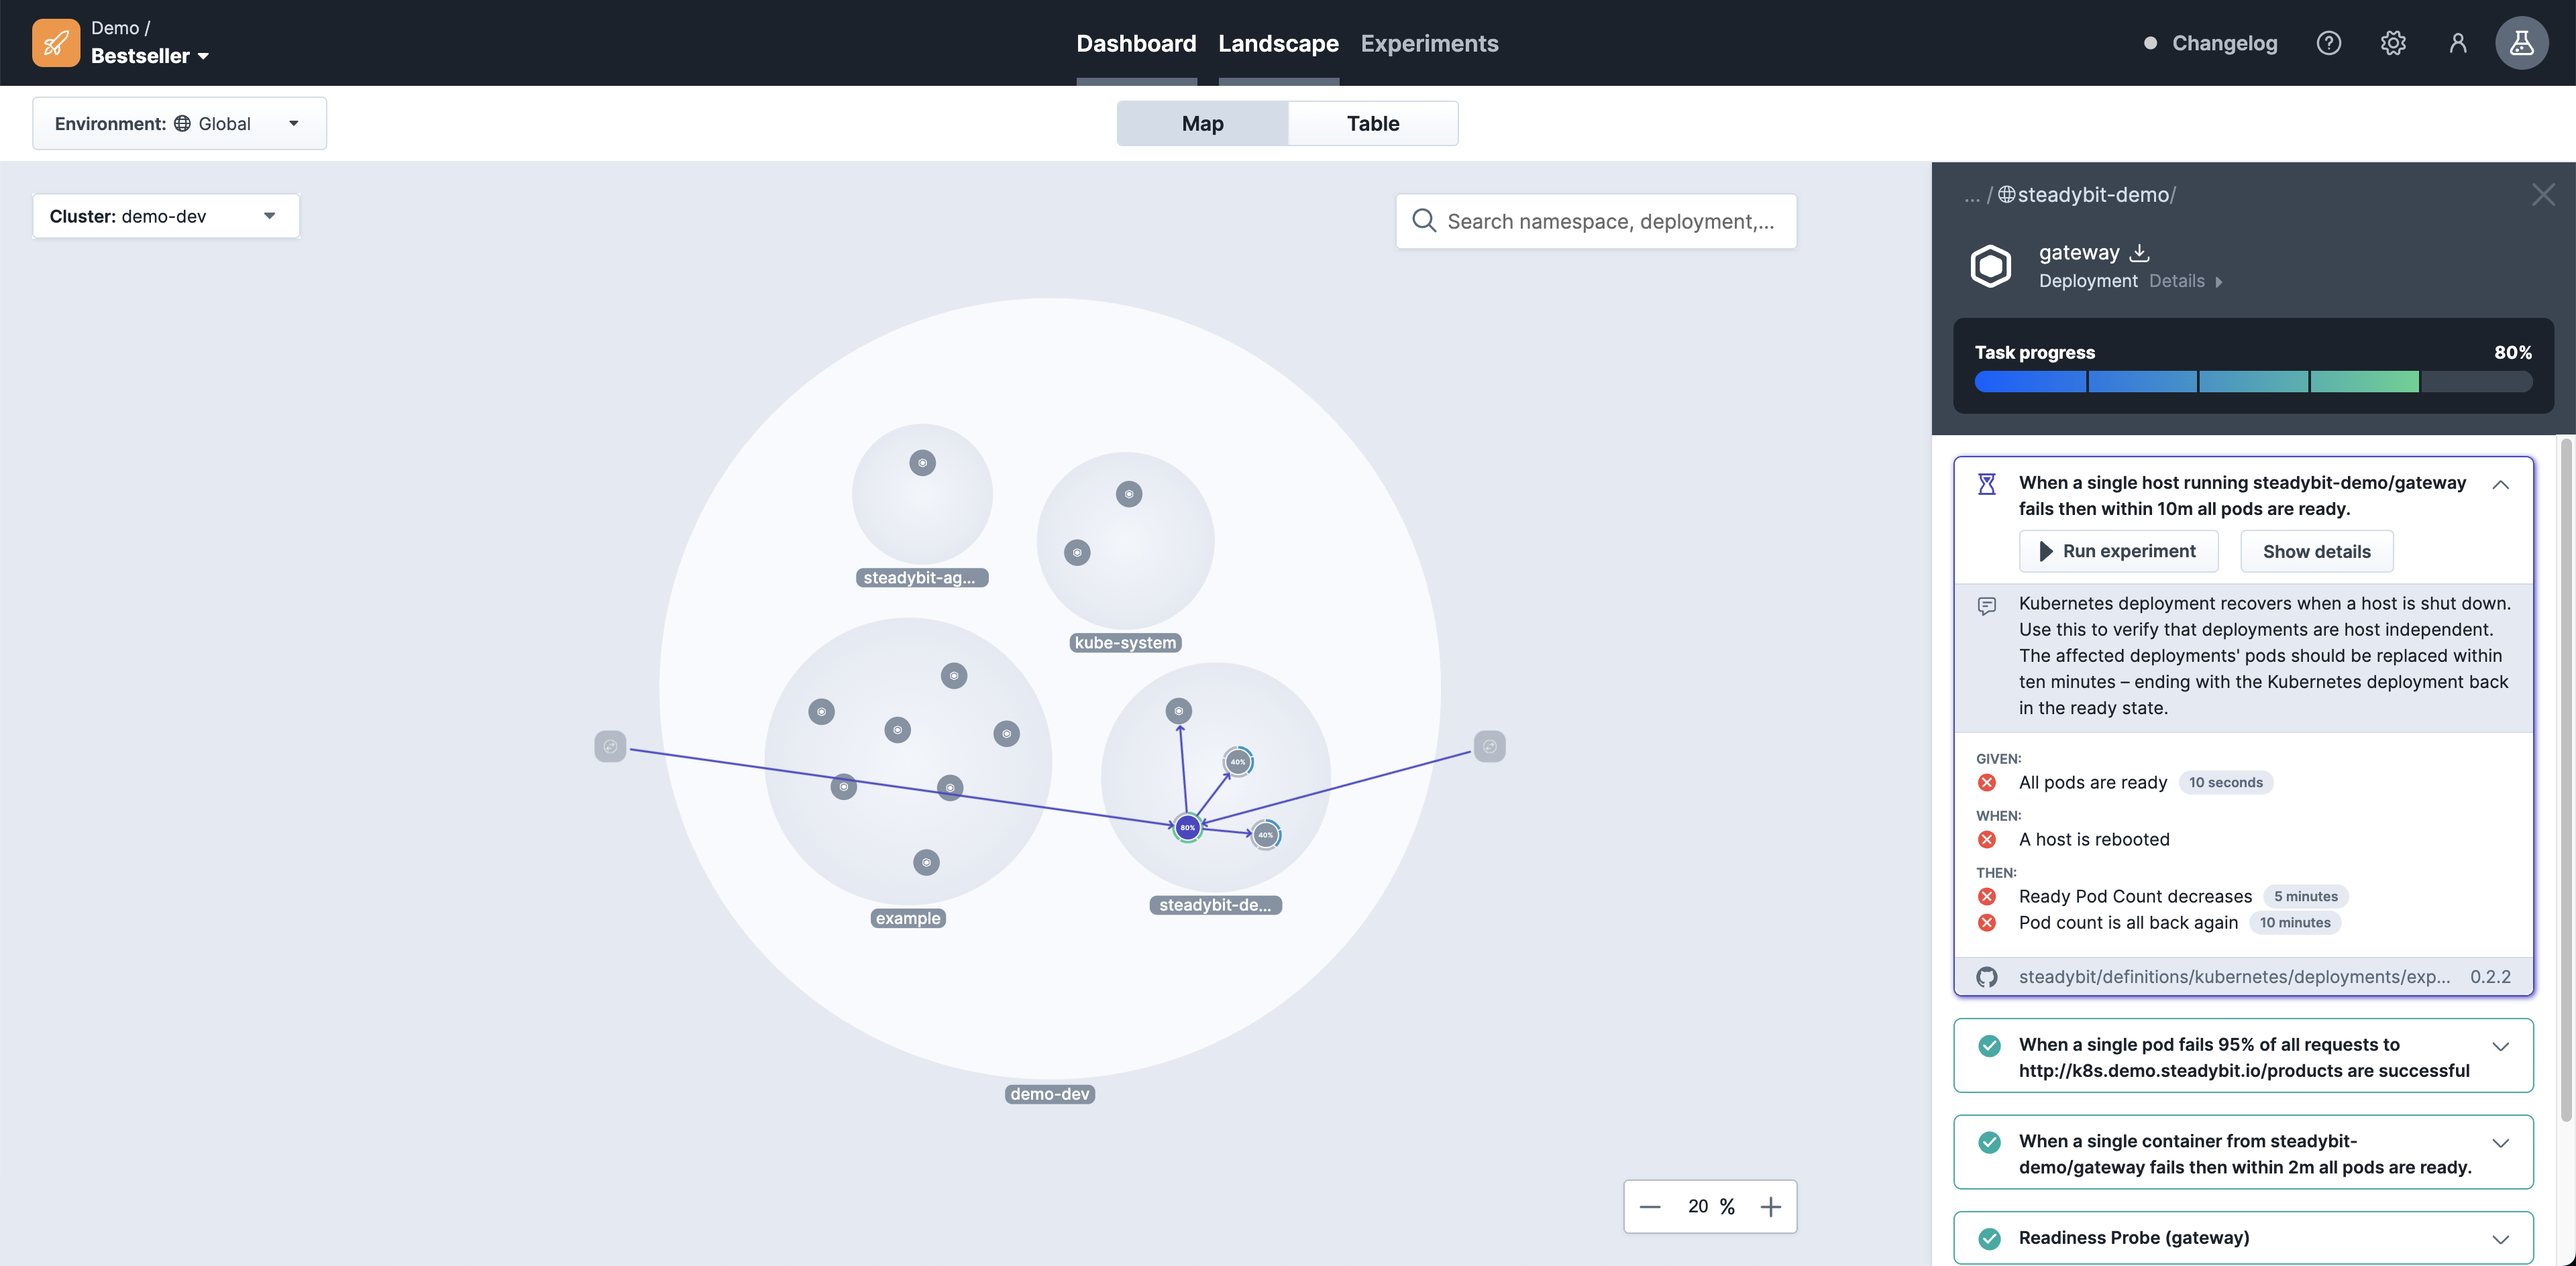
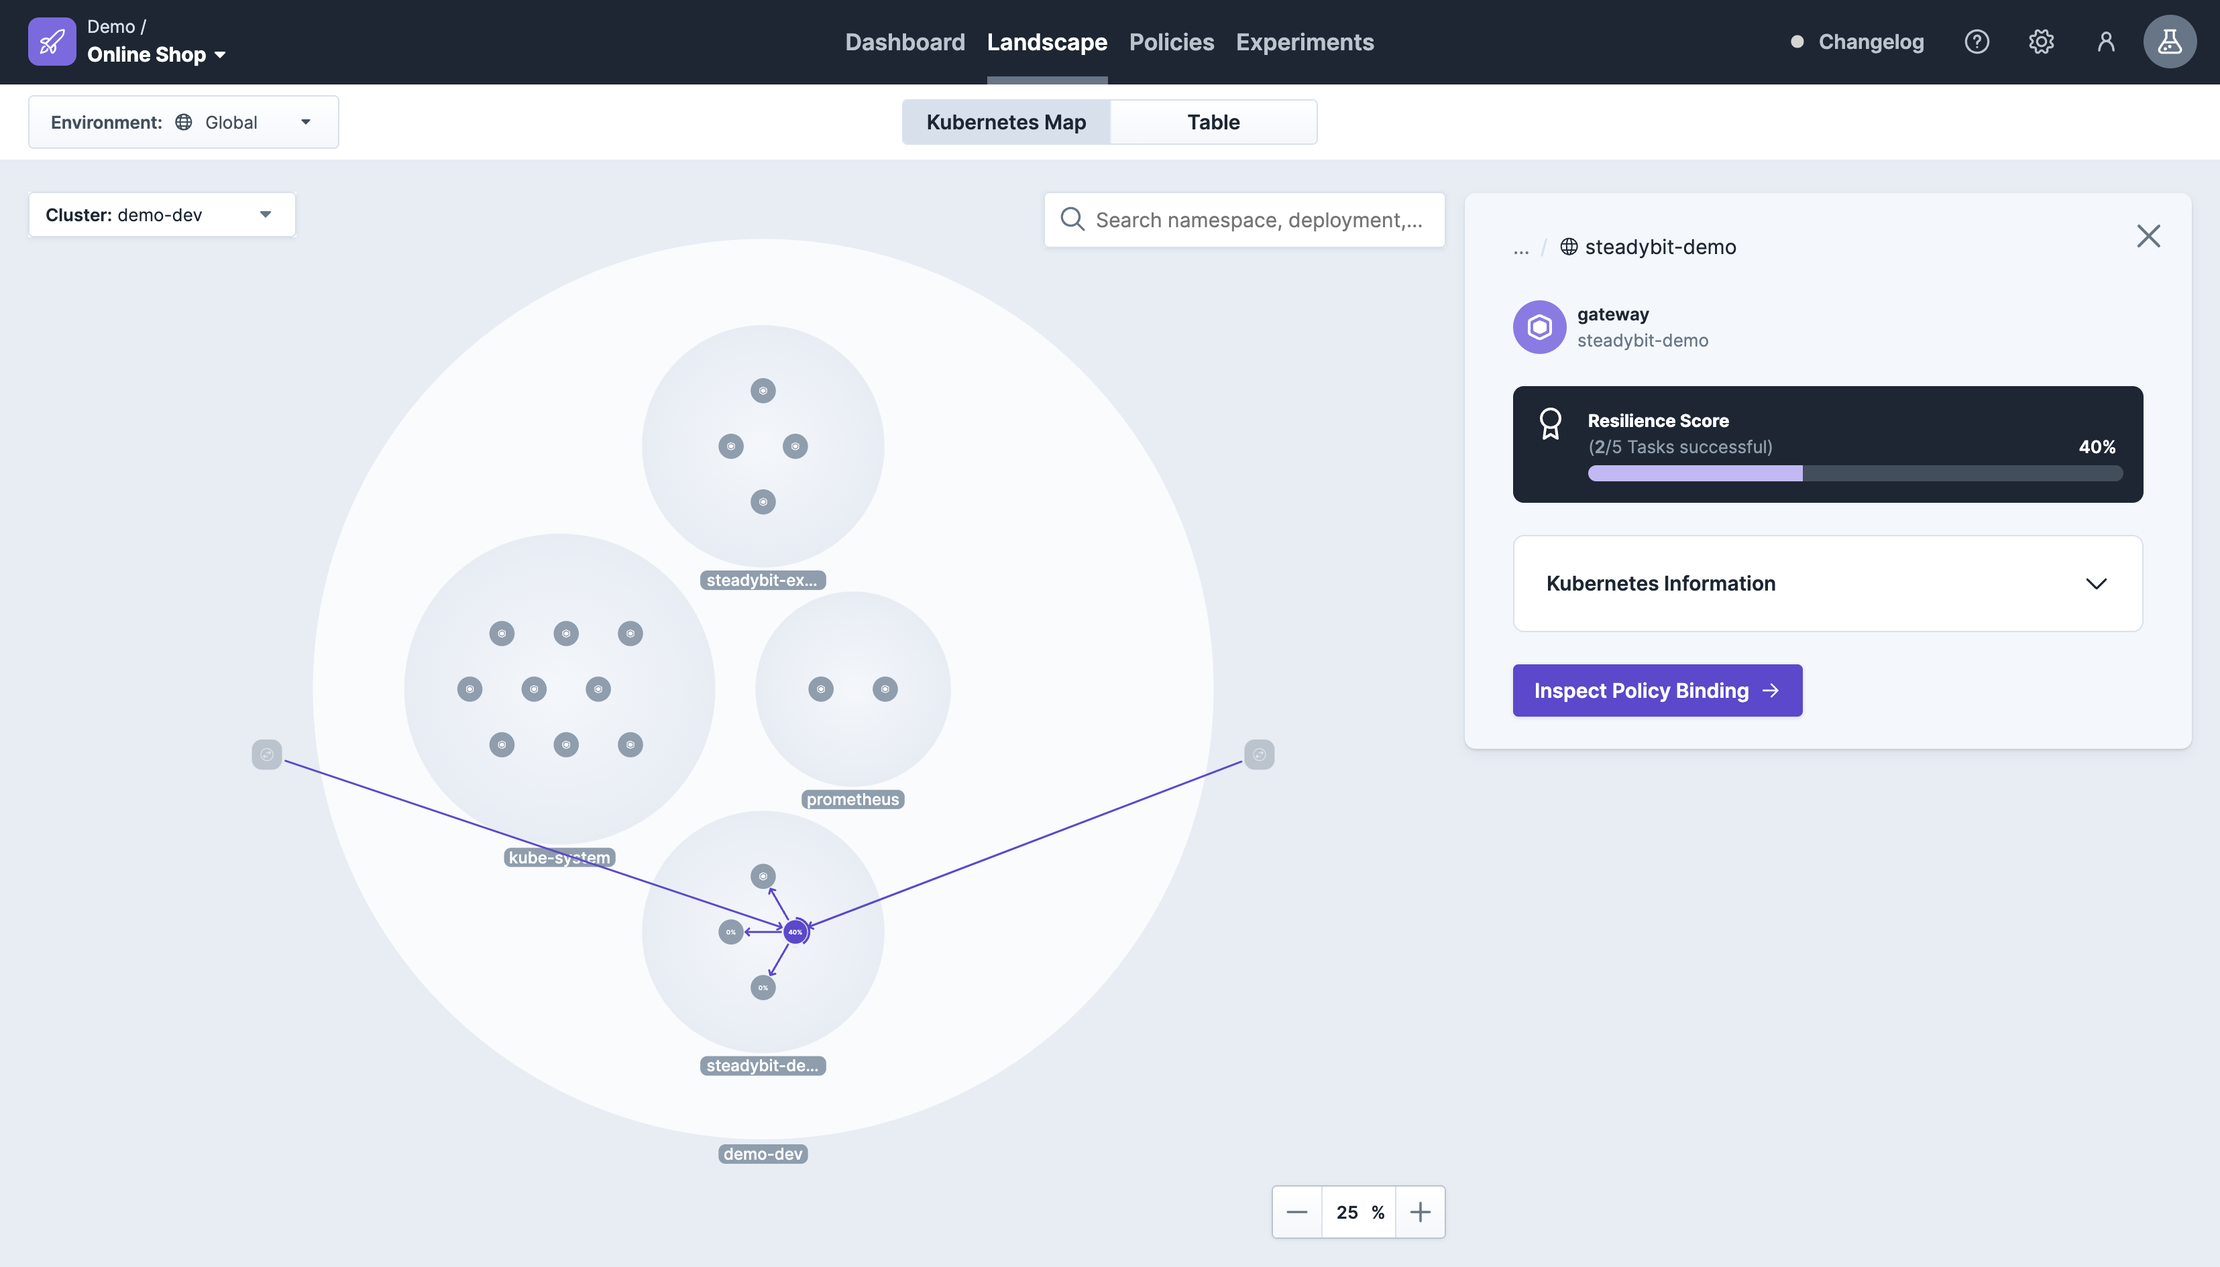
fix: updated screenshot showing policies in landscape

diff --git a/quick-start/define-resilience-policies.md b/quick-start/define-resilience-policies.md
@@ -65,7 +65,7 @@ Depend on your selection in step 3, you may find that not all tasks are fulfille
 steadybit policy-binding open
 ```
 
-![Image showing Steadybit's landscape view with a selected Kubernetes deployment that has fulfilled 80% of its policiey](define-resilience-policies-landscape.png)
+![Image showing Steadybit's landscape view with a selected Kubernetes deployment that has fulfilled 40% of its policies](define-resilience-policies-landscape.png)
 
 ### Step 7 - Execute Experiments and check Weak Spots via CLI
 
